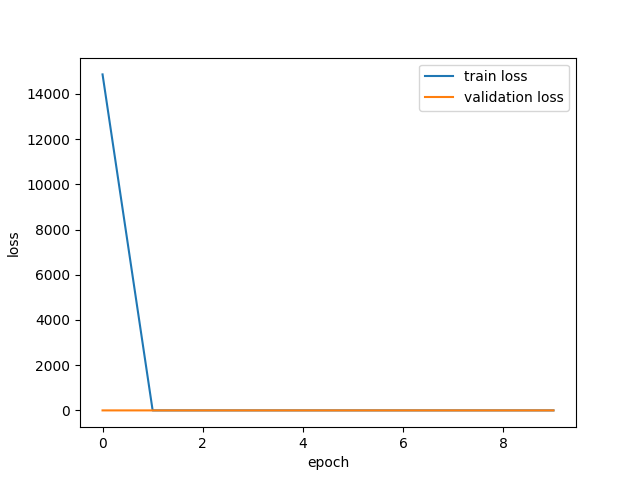
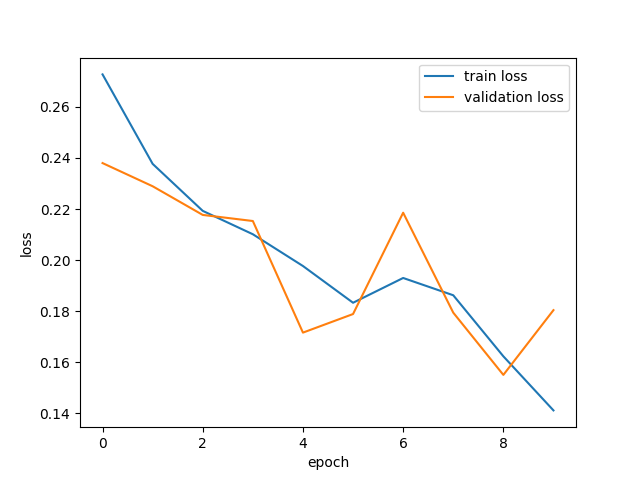
add

diff --git a/main.py b/main.py
@@ -25,16 +25,17 @@ train_label = make_label('/home/student/datasets/CT200_160/train_label.csv')
 valid_label = make_label('/home/student/datasets/CT200_160/valid_label.csv')
 
 #前処理を定義
+mean, std = 0.07, 0.14
 train_transform = transforms.Compose([
     # transforms.RandomHorizontalFlip(),
     # transforms.RandomRotation(10),
     # transforms.Normalize((0.5, ), (0.5, )) 間違い
-    transforms.Normalize((0.5), (0.5))
+    transforms.Normalize(mean, std)
     ])
 
 valid_transform = transforms.Compose([
     # transforms.Normalize((0.5, ), (0.5, )) 間違い
-    transforms.Normalize((0.5), (0.5))
+    transforms.Normalize(mean, std)
     ])
 
 
@@ -53,6 +54,8 @@ print(model)
 
 #損失関数
 sex_weight = torch.tensor([7.0, 3.0]).cuda()
+# sex_weight = torch.tensor([2.0, 1.0]).cuda()
+# age_weight = torch.tensor([12.0, 2.0, 3.0, 4.0, 6.0, 6.0, 12.0]).cuda()
 age_weight = torch.tensor([12.0, 2.0, 3.0, 4.0, 6.0, 6.0, 12.0]).cuda()
 sex_criterion = nn.CrossEntropyLoss(weight=sex_weight)
 age_criterion = nn.CrossEntropyLoss(weight=age_weight)
@@ -61,7 +64,7 @@ age_criterion = nn.CrossEntropyLoss(weight=age_weight)
 # age_criterion = nn.CrossEntropyLoss()
 
 #最適化手法
-optimizer = optim.Adam(model.parameters(), lr=0.01)
+optimizer = optim.Adam(model.parameters(), lr=0.0001)
 
 #学習・検証
 epochs = 10

diff --git a/make_data.py b/make_data.py
@@ -43,7 +43,9 @@ def make_data(data_directory):
             volume.append(image4)
         zero = np.zeros(((max-num), 1, 96, 96))
         np_volume = np.array(volume)
-        volume = np.append(np_volume, zero, axis=0).tolist()
+        # volume = np.append(np_volume, zero, axis=0).tolist()
+        volume = np.append(np_volume, zero, axis=0) / 255.0
+        volume = volume.tolist()
         datasets.append(volume)
     torch_datasets = torch.tensor(datasets).permute(0, 2, 1, 3, 4)
 

diff --git a/model.py b/model.py
@@ -1,8 +1,6 @@
 import torch
 import torch.nn as nn
 
-torch.manual_seed(0)  ###########################
-
 class CNN3D(nn.Module):
     def __init__(self):
         super().__init__()
